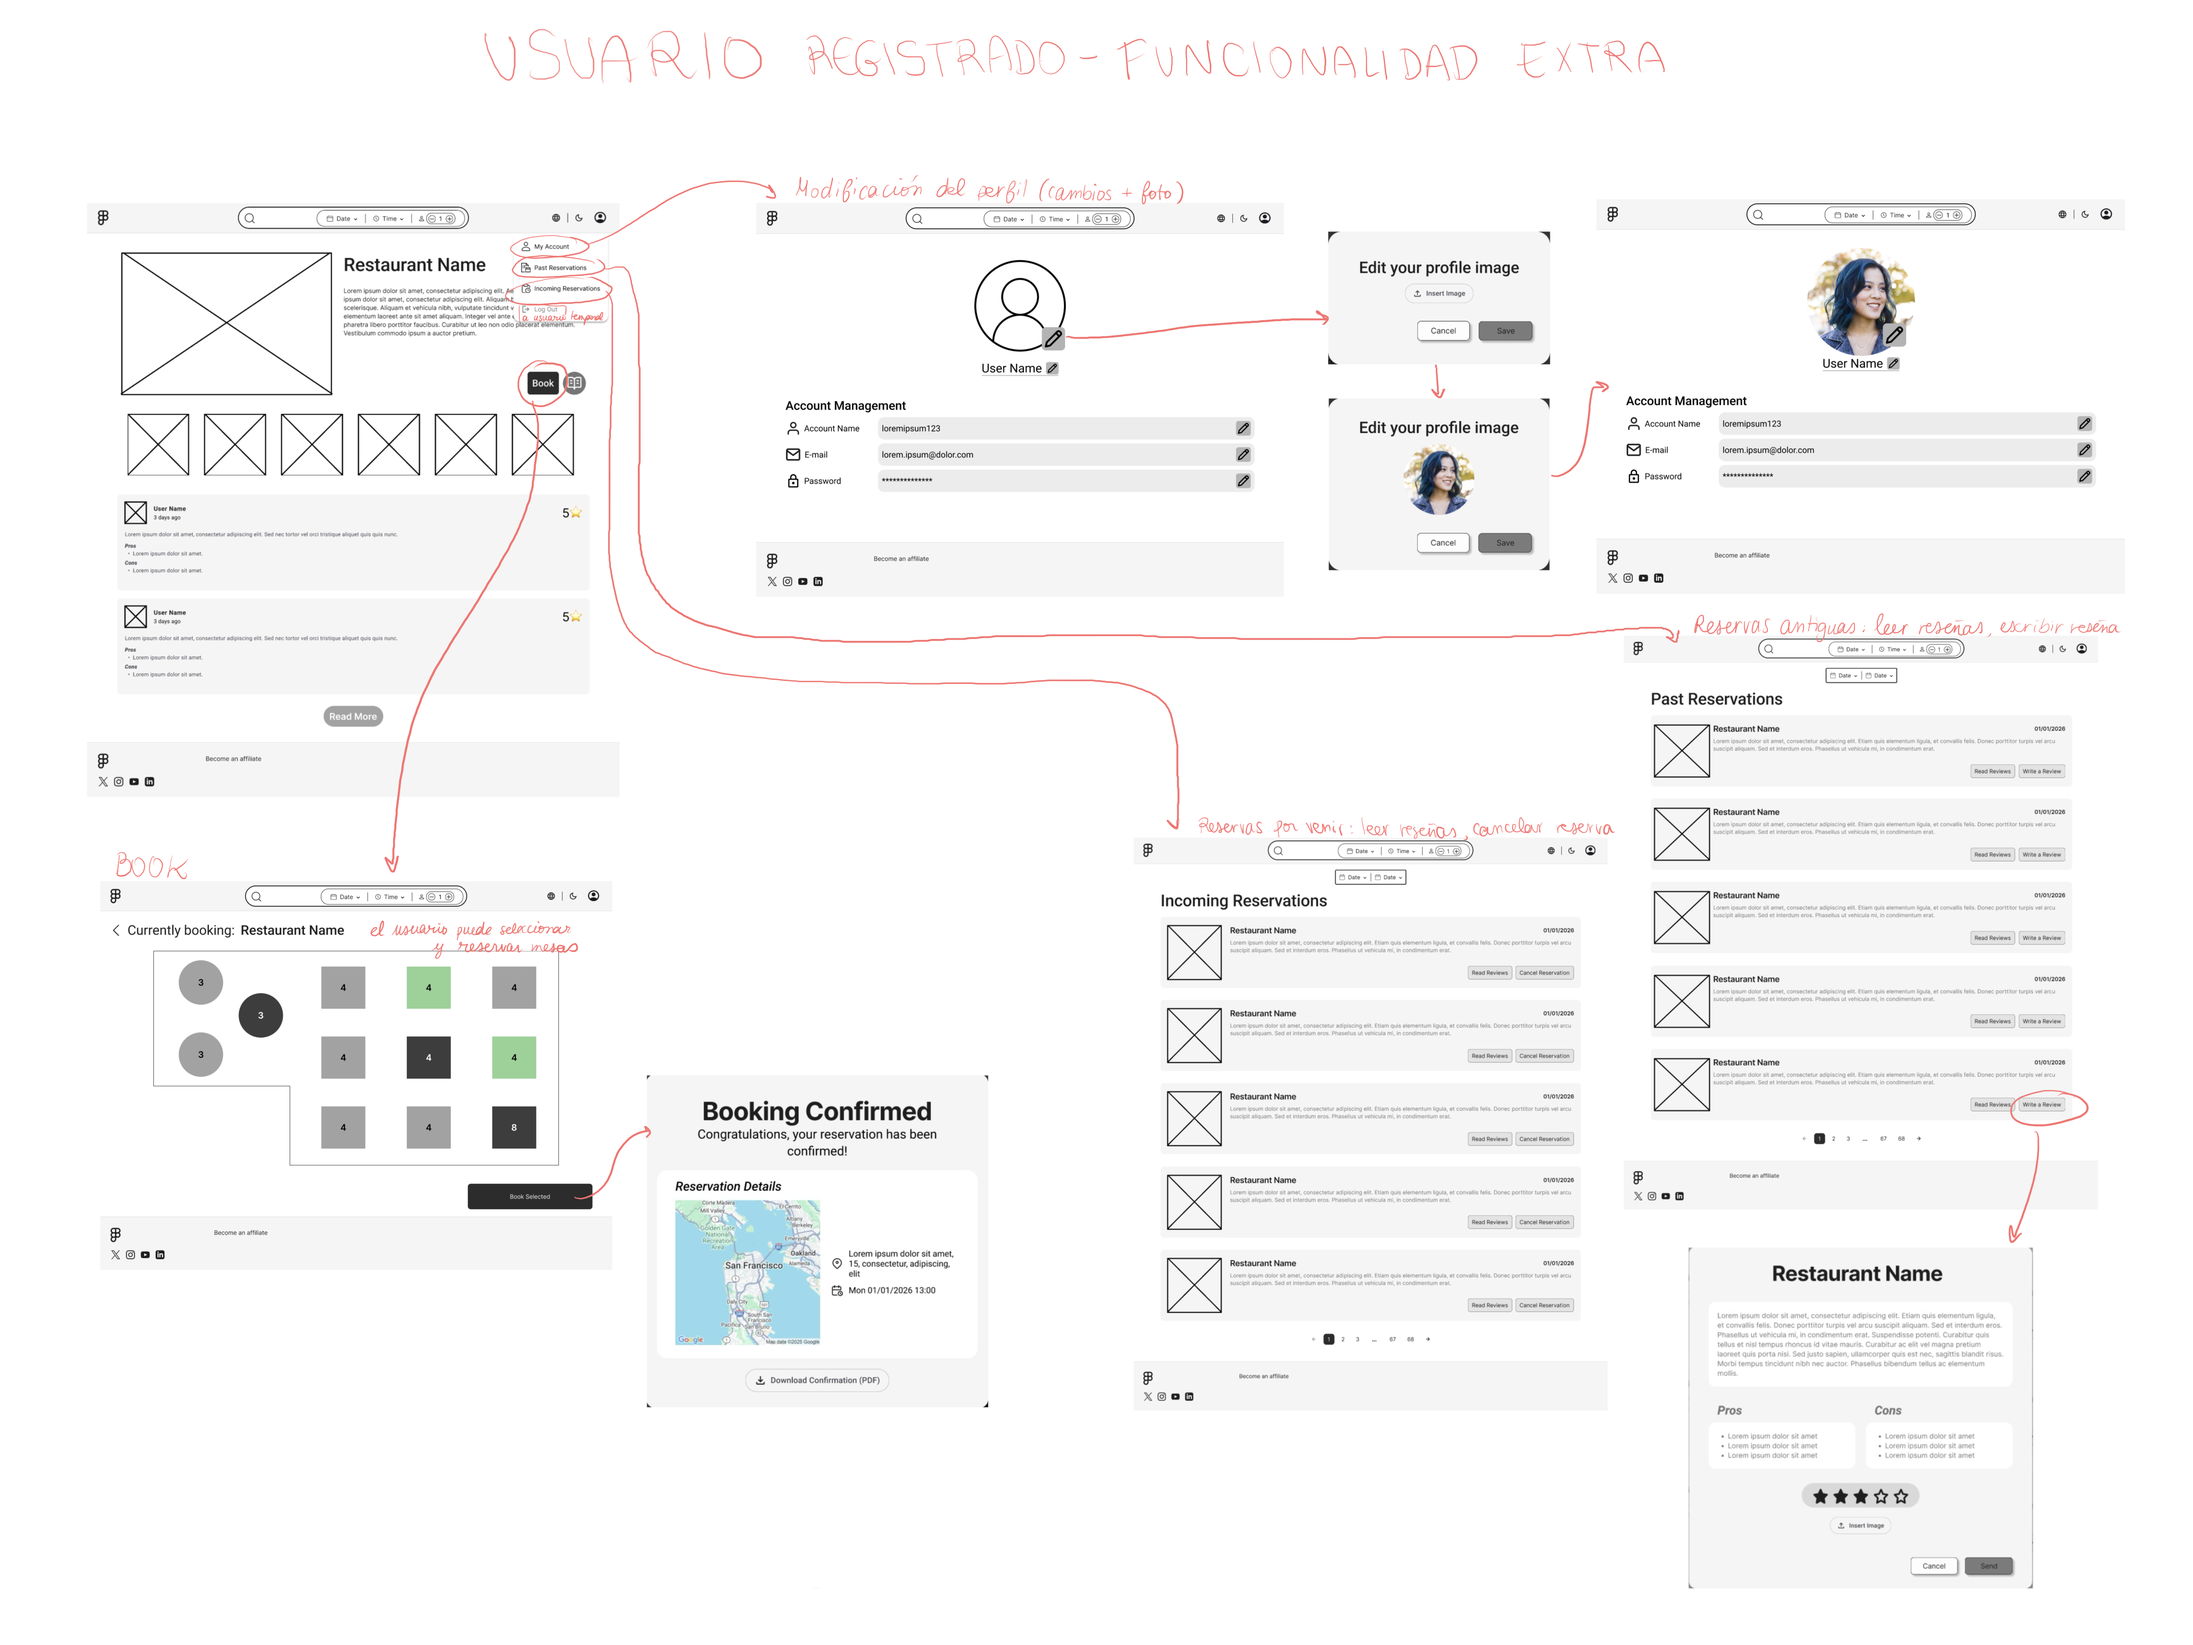
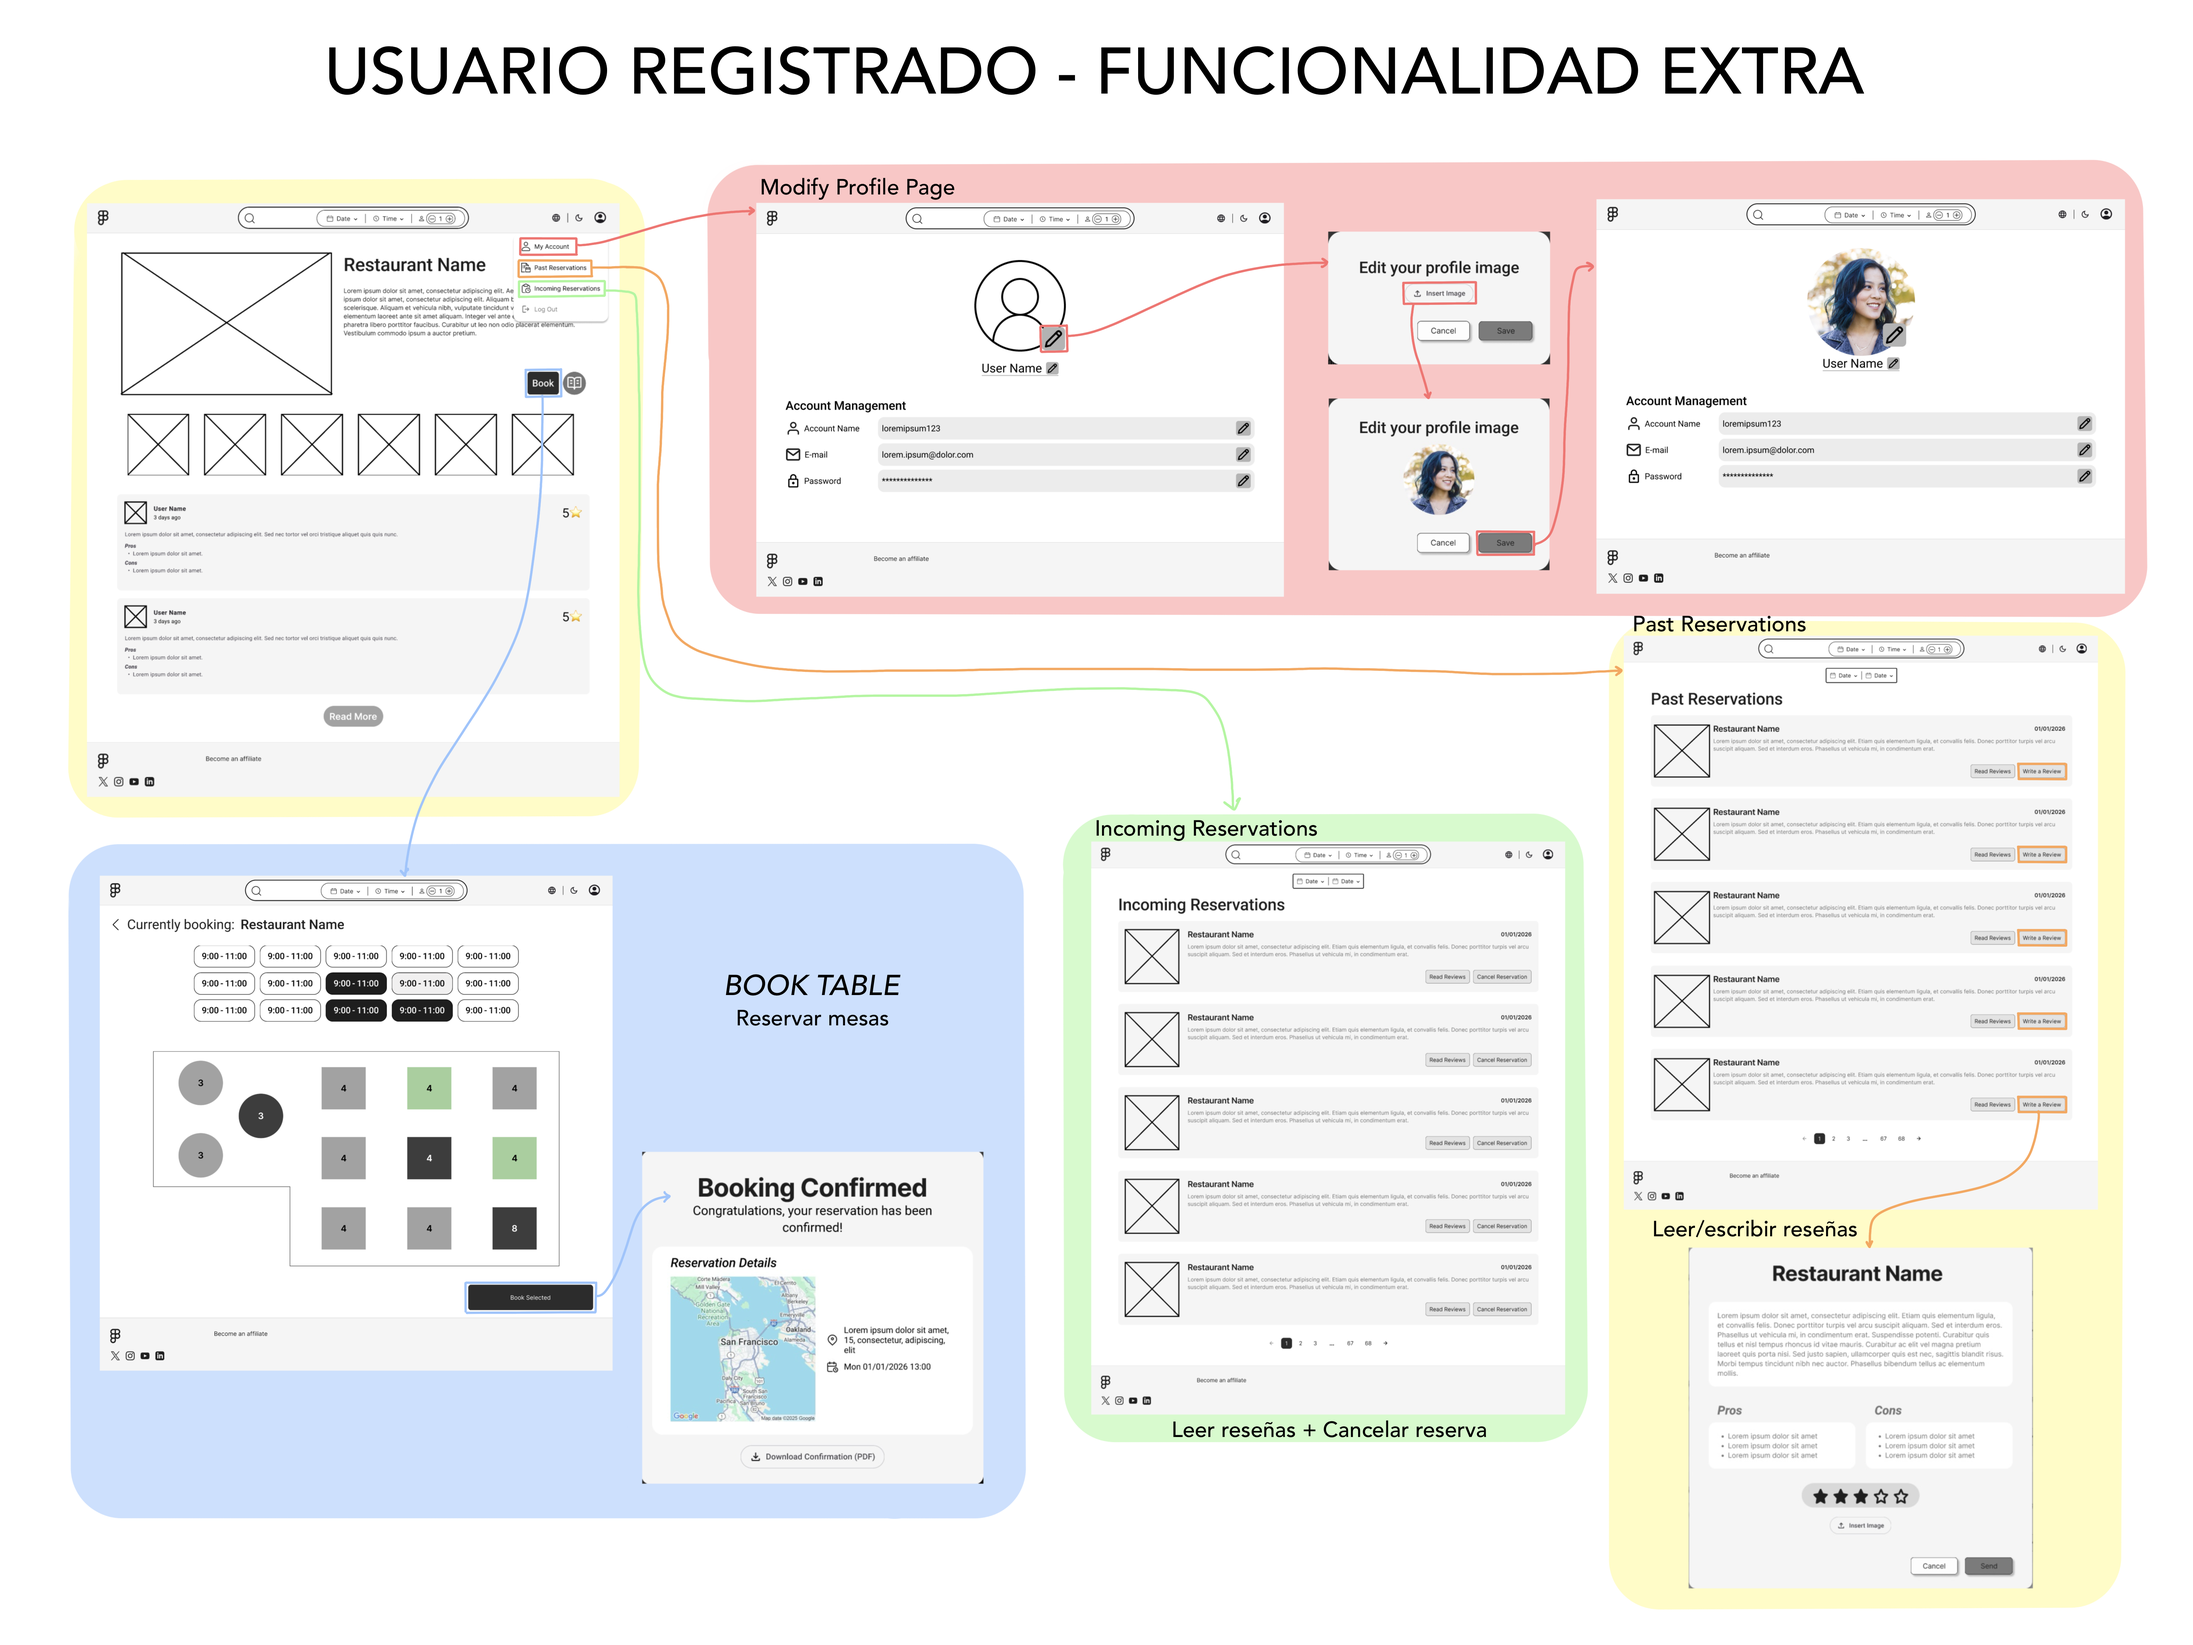
Documentation - Final storyboards + customized README.

diff --git a/README.md b/README.md
@@ -9,6 +9,8 @@
 > 
 > En definitiva, BookEat unifica en una sola interfaz intuitiva todas las herramientas necesarias para que el cliente disfrute de su reserva y el restaurante optimice su flujo diario de trabajo.
 
+---
+
 ## Funcionalidad del proyecto - Requisitos
 
 Hay 3 tipos de usuarios, temporal, registrado y restaurante. Usuario temporal es el base, al que se le añaden
@@ -31,6 +33,8 @@ funcionalidades en los usuarios registrados y restaurante:
 > Para más información acerca de la funcionalidad y el alcance del proyecto, así como la lista completa de requisitos,
 > consulta nuestro [Documento de Requisitos](/doc/BookEat_Requisitos.pdf).
 
+---
+
 ## Diseño
 ### Mockups
 Hemos desarrollado un prototipo que simula la navegación real de la aplicación, desde la búsqueda inicial 
@@ -41,10 +45,13 @@ hasta la confirmación de la mesa, pasando por la gestión del restaurante.<br><
 ### Storyboard
 Representación visual del flujo de uso de la aplicación, desde la necesidad del cliente hasta su resolución.
 
-|                 Usuario Temporal                  |                  Usuario Registrado                   |                   Usuario Restaurante                   |
-|:-------------------------------------------------:|:-----------------------------------------------------:|:-------------------------------------------------------:|
+|                     Usuario Temporal                     |                      Usuario Registrado                      |                      Usuario Restaurante                       |
+|:--------------------------------------------------------:|:------------------------------------------------------------:|:--------------------------------------------------------------:|
 | ![Temporal](/doc/images/storyboard/usuario_temporal.png) | ![Registrado](/doc/images/storyboard/usuario_registrado.png) | ![Restaurante](/doc/images/storyboard/usuario_restaurante.png) |
+
 <sub>*[Acceder al storyboard ↑](/doc/images/storyboard)*</sub>
+
+---
 
 ## Estructura del proyecto
 
@@ -71,6 +78,8 @@ Representación visual del flujo de uso de la aplicación, desde la necesidad de
 - `pages/`: Páginas, archivos HTML finales. Ensamblan los distintos *templates* para conformar las distintas vistas.
 - `css/` y `js/`: Lógica de comportamiento y estilos que afectan a toda la aplicación
 
+---
+
 ## Páginas e identificación de *templates*
 
 La aplicación se compone de 8 páginas principales, construidas mediante el ensamblaje de *templates*:
@@ -87,10 +96,14 @@ La aplicación se compone de 8 páginas principales, construidas mediante el ens
 > **Arquitectura de *Templates***: Cada una de estas páginas está construida utilizando *templates*. Para consultar
 > el desglose técnico de cada uno de estos, consulta nuestra [Guía Detallada de Templates](/doc/templates.md).
 
+---
+
 ## Consideraciones técnicas
 
 - **Calendarios**: Utilizamos la api de [*FlatPickr*](https://github.com/flatpickr/flatpickr) para proporcionar una selección de fechas ligera y personalizable.
 - **JavaScript**: numerosos componentes usan javascript a modo de animación (ir a templates para chequear)
+
+---
 
 ## Otros
 [Icons](https://www.svgrepo.com/collection/smoothie-line-icons/2)

diff --git a/doc/images/storyboard/README.md b/doc/images/storyboard/README.md
@@ -1,0 +1,30 @@
+[← Volver al README principal](/README.md)
+
+# Storyboards - Flujos de Usuario
+
+## Descripción
+Aquí documentamos los *User Journeys* diseñados para **BookEat**. En estos *storyboards* se ilustra la lógica de 
+navegación entre las páginas, resultado de la interacción de los usuarios con la aplicación.
+
+> Estos diseños permiten asegurar una experiencia de usuario fluida incluso antes de pasar a la maquetación final.
+
+---
+
+## Flujo 1 - Usuario Temporal (Vista Pública)
+*Camino desde que un cliente entra a la **Landing Page** hasta que encuentra el restaurante deseado.*
+
+![Usuario temporal](/doc/images/storyboard/usuario_temporal.png)
+
+---
+
+## Flujo 2 - Usuario Registrado
+*Beneficios extra que se aportan al usuario que ha creado una cuenta con **BookEat** y ha iniciado sesión con ella.*
+
+![Usuario registrado](/doc/images/storyboard/usuario_registrado.png)
+
+---
+
+## Flujo 3 - Usuario Restaurante
+*Funcionalidades extra que se aportan a restaurantes afiliados en la aplicación.*
+
+![Usuario restaurante](/doc/images/storyboard/usuario_restaurante.png)
